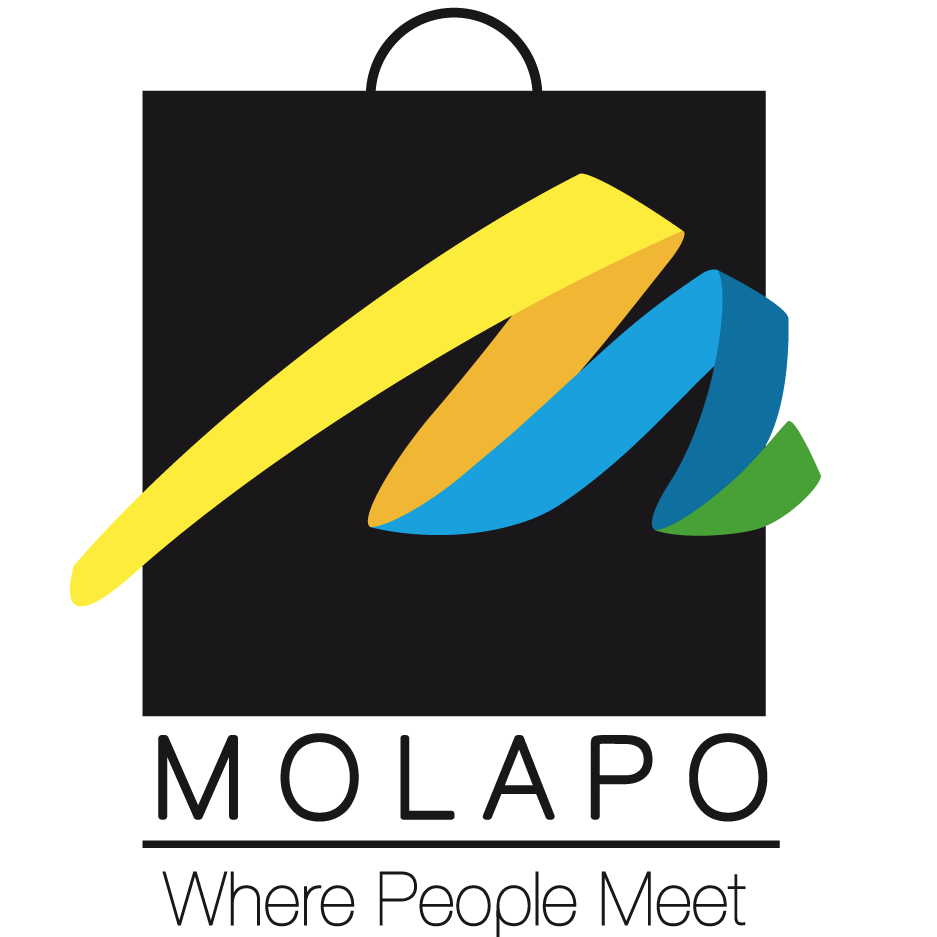
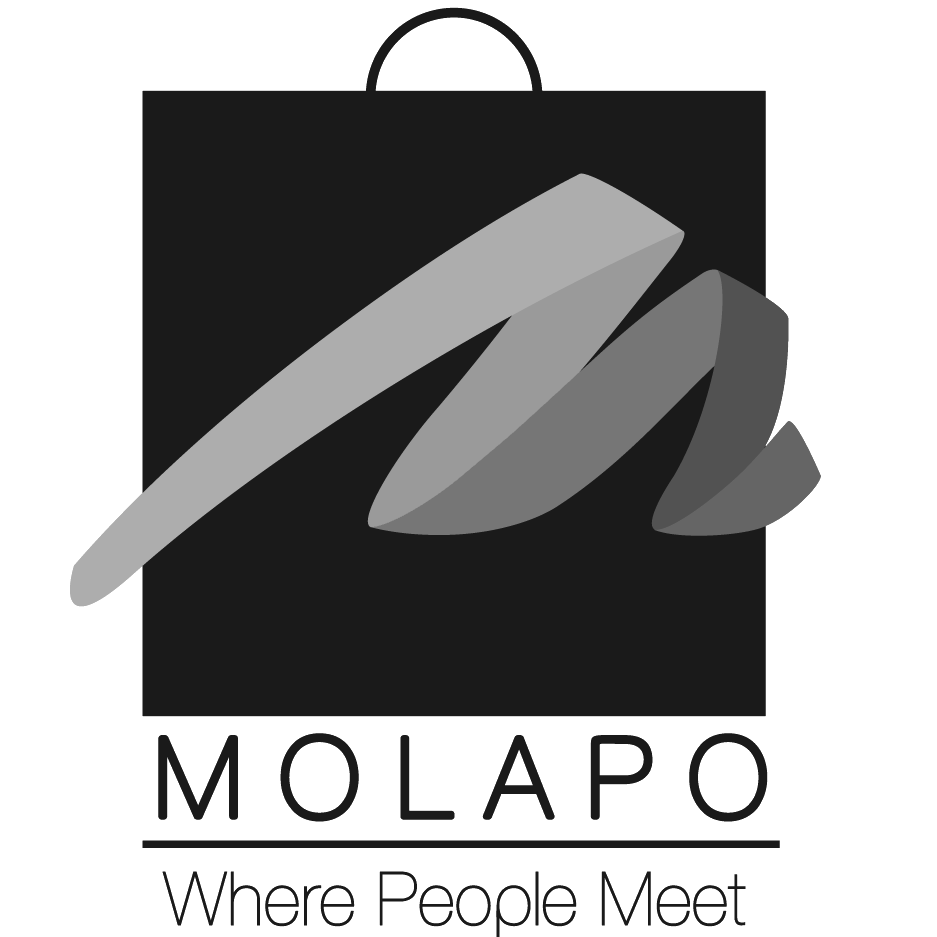
added new monochrome partners image

Changed region(s): [[0.0619, 0.1857, 0.8975, 0.6499]]

diff --git a/index.html b/index.html
@@ -178,11 +178,12 @@
         <div class="container">
             <h2>Our Partners</h2>
              <section class="customer-logos slider">
-                <div class="slide"><a href="https://www.bb.org.bw/" target="_blank"><img src="img/bb.jpg"></a></div>
-                <div class="slide"><a href="http://www.bshdngo.org/" target="_blank"><img src="img/download.jpeg"></a></div>
+                <div class="slide"><a href="https://www.bb.org.bw/" target="_blank"><img src="img/bb.png"></a></div>
+                <div class="slide"><a href="http://www.bshdngo.org/" target="_blank"><img style="margin-top:40px" src="img/bsbhd.png"></a></div>
                 <div class="slide"><a href="https://www.ub.bw/" target="_blank"><img src="img/ub.jpg"></a></div>
                 <div class="slide"><a href="http://www.naftec.org/" target="_blank"><img src="img/web_logo.jpg"></a></div>
                 <div class="slide"><a href="https://wellcome.ac.uk/" target="_blank"><img src="img/wellcome.png"></a></div>
+                <div class="slide"><a href="https://www.facebook.com/Alliance.Francaise.de.Gaborone/" target="_blank"><img src="img/alliance.png"></a></div>
                 <div class="slide"><a href="https://www.facebook.com/pages/category/Tour-Agency/Molapo-Crossing-182943338558621/" target="_blank"><img src="img/molapo.png"></a></div>
              </section>
           </div>
